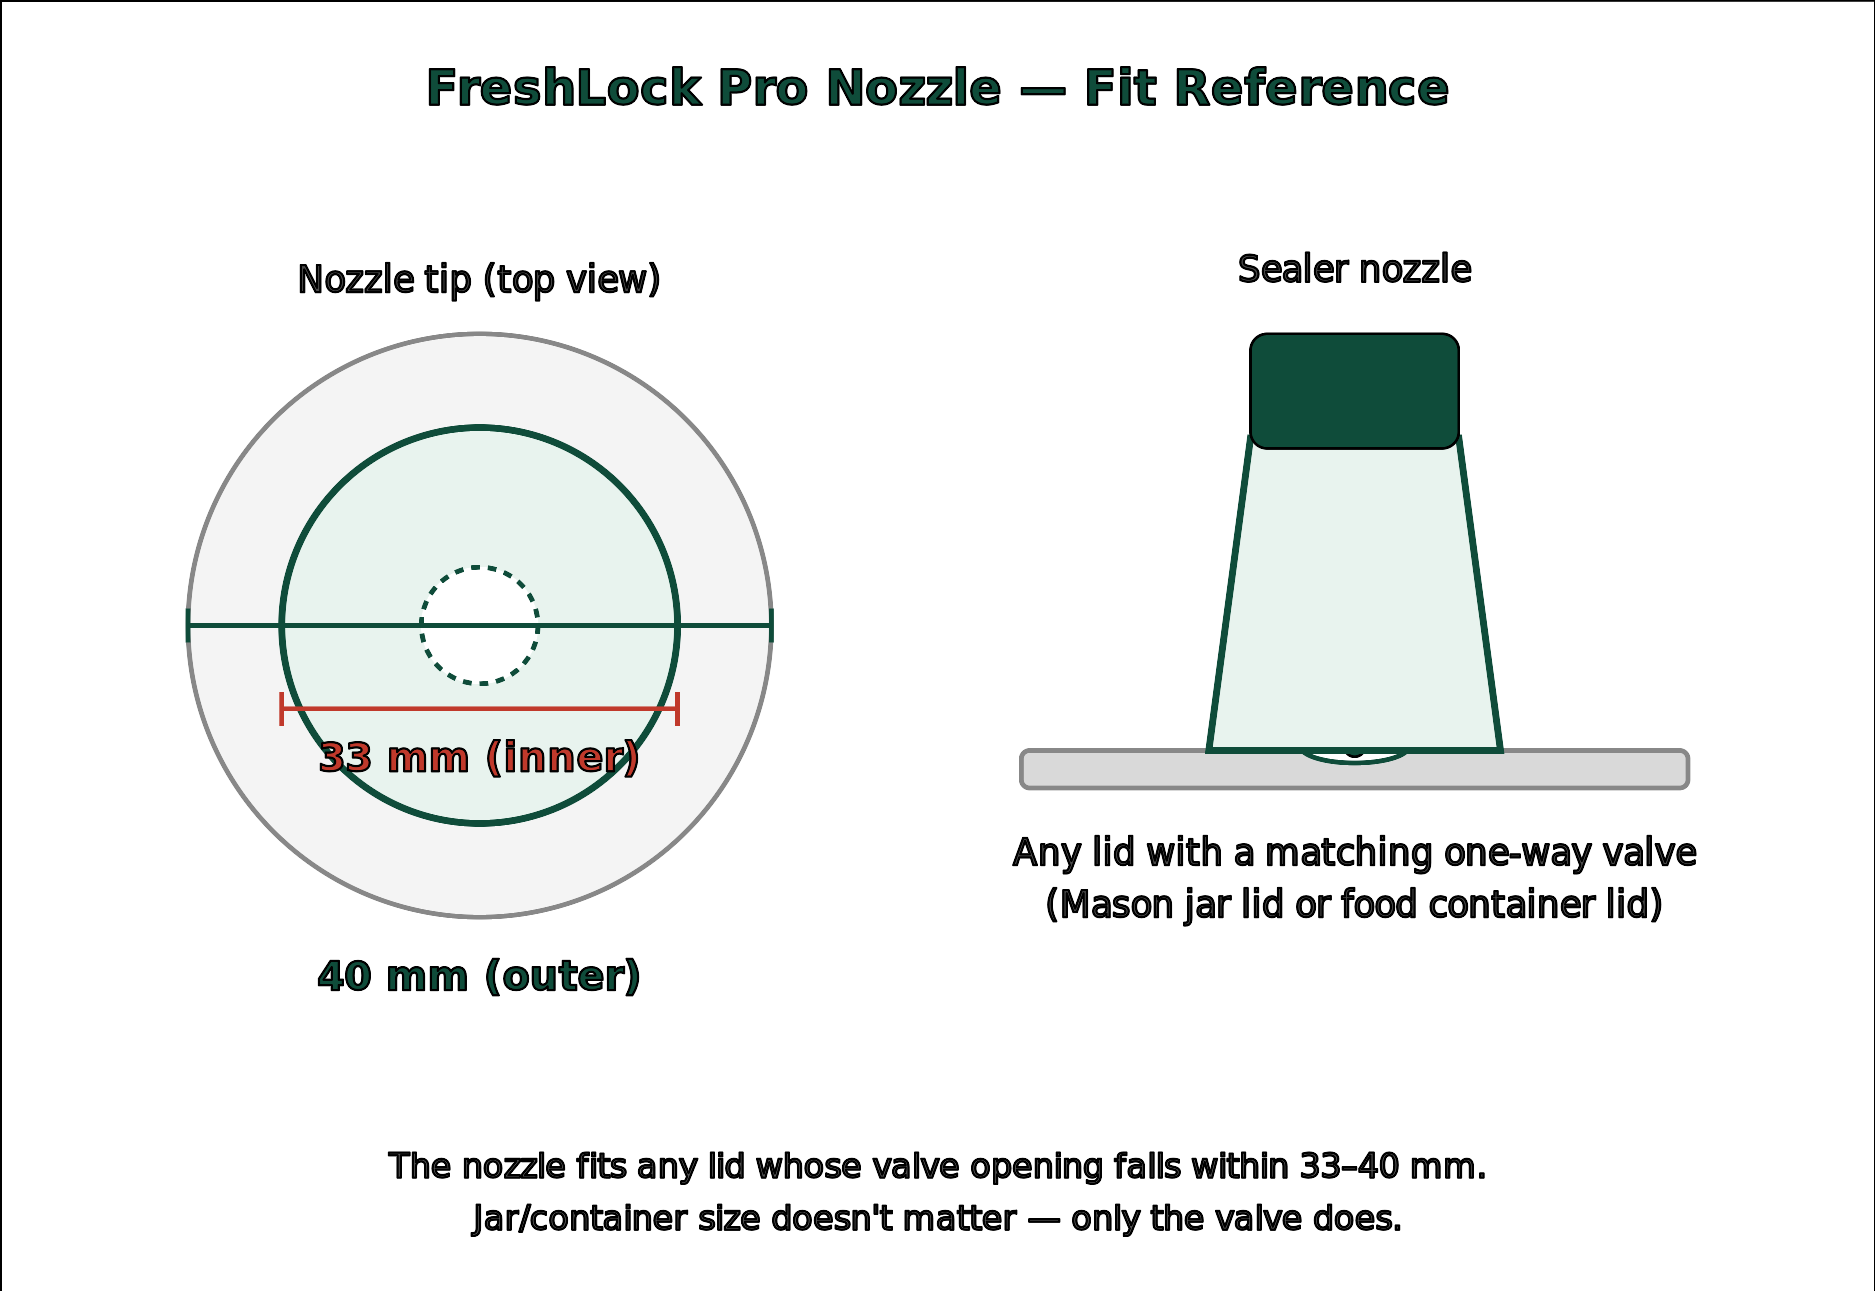
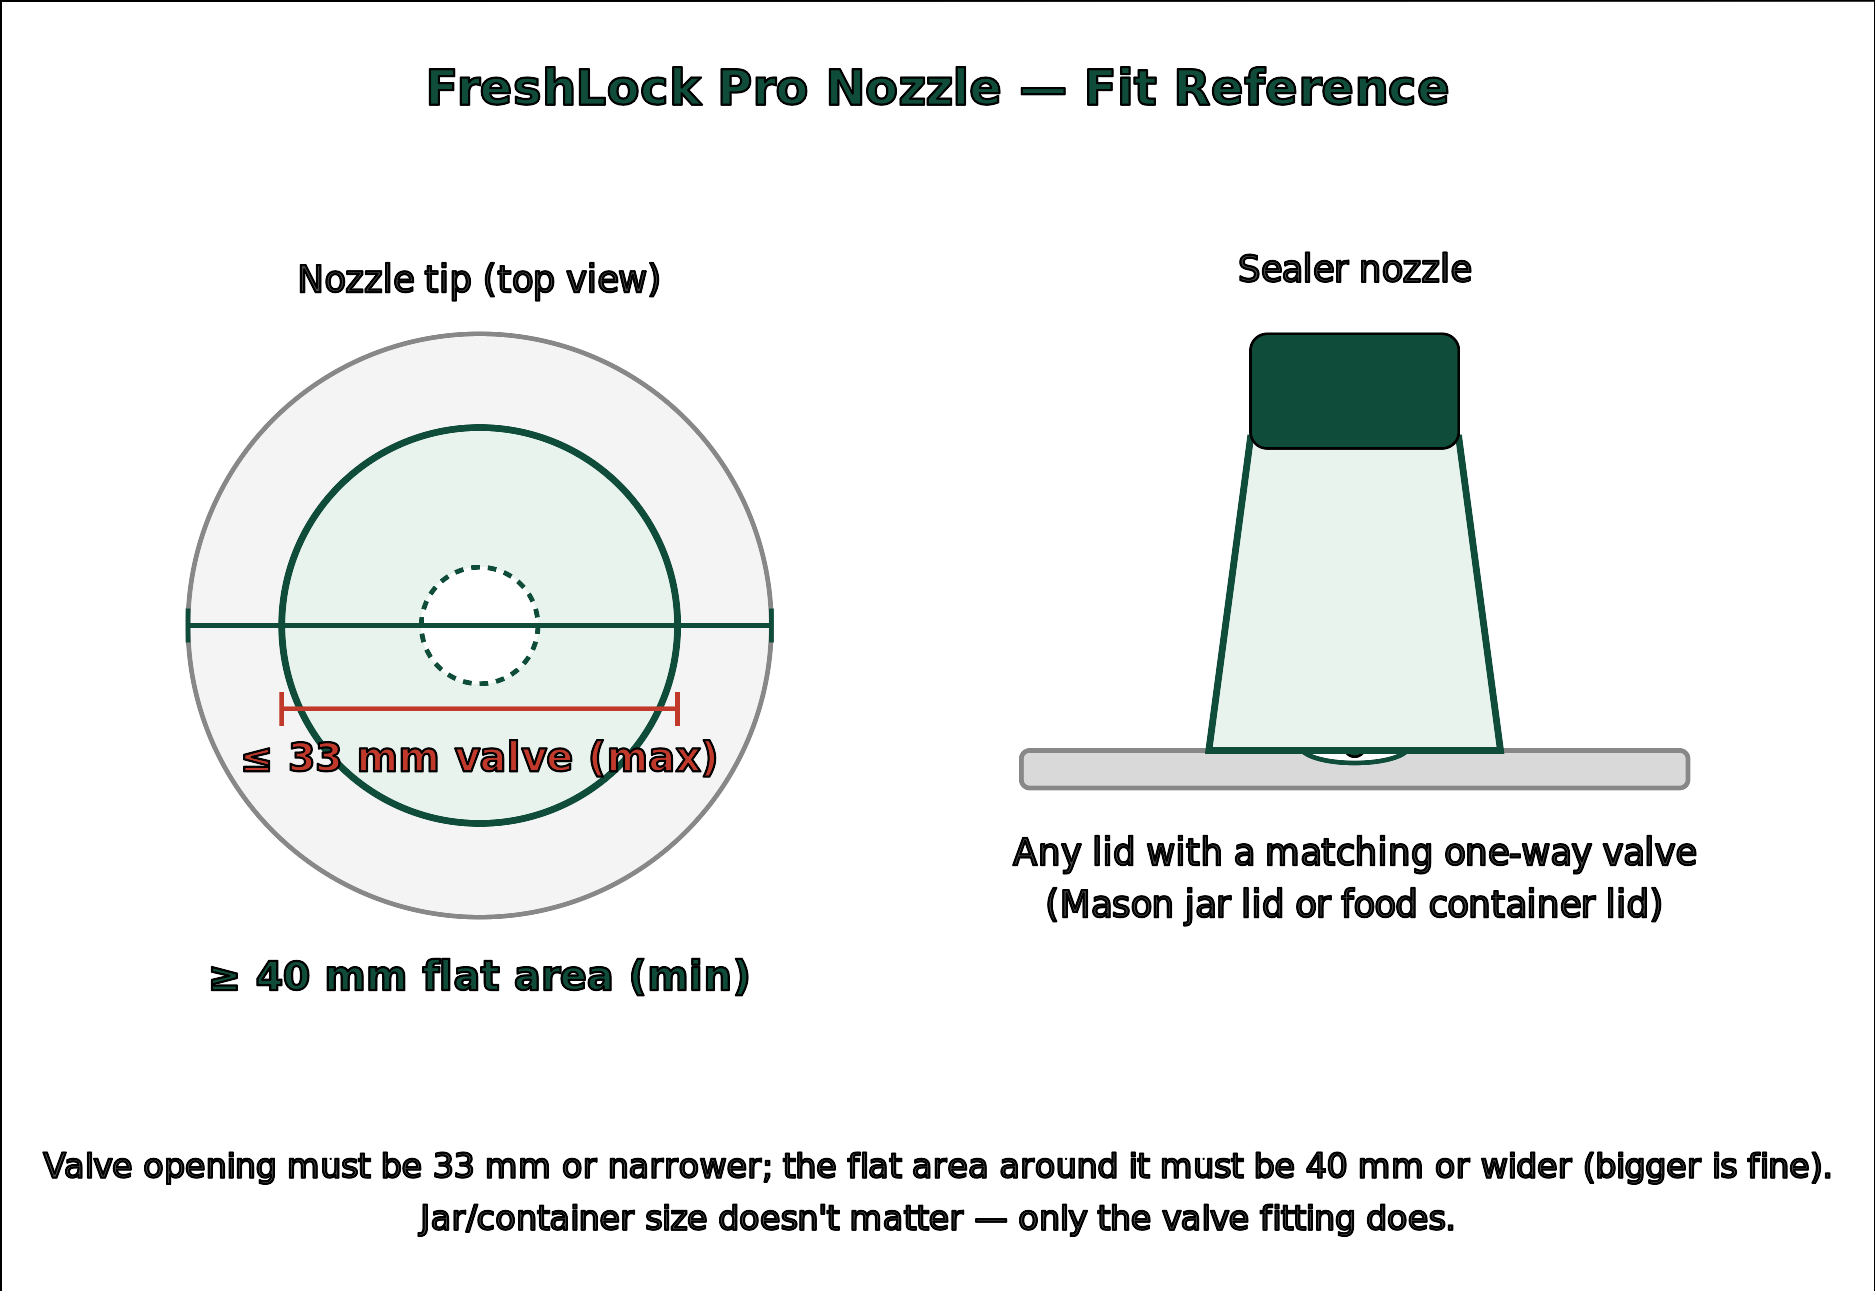
fix: correct nozzle fit spec — valve max / flat-surface min, not a fixed range
User's own clarification (2026-09-21): 33mm/40mm aren't a "valve must be
exactly in this range" window like PR #12 implied. They're two independent
tolerances — valve opening must be <=33mm (nozzle needs to cover/seal
against it), and the flat sealing surface around the valve must be >=40mm
(a larger flat area is fine; smaller and the nozzle can't sit flush, which
risks an air leak). Corrects the features bullet, spec row, FAQ answer, and
the nozzle-fit-diagram.png labels/caption to state the actual tolerance
logic instead of a misleading fixed range.

Claude-Session: https://claude.ai/code/session_01HDovveMbi5Yy68JGvvZHzC

Changed region(s): [[0.0309, 0.8675, 0.9899, 0.9605], [0.1237, 0.5577, 0.3712, 0.6197], [0.0928, 0.7436, 0.4021, 0.7746]]

diff --git a/lib/data.ts b/lib/data.ts
@@ -46,7 +46,7 @@ export const products: Product[] = [
       'Detachable drip tray with liquid backflow protection for soups, marinades, and juicy foods',
       'One-touch operation — no heat bar, no complicated settings',
       'Compatible with most embossed valve bags (not locked to our own bags)',
-      'Also seals Mason jars and food storage containers airtight — works with any lid that has a matching one-way vacuum valve (33 mm inner / 40 mm outer nozzle fit)',
+      'Also seals Mason jars and food storage containers airtight — works with any lid that has a one-way vacuum valve no wider than 33 mm, on a flat sealing surface at least 40 mm across',
       'Cordless & portable — USB-C rechargeable, 80–100 seals per charge',
       'Quiet motor under 60 dB — about as loud as a library',
       'Compact, lightweight design (~210 g) — fits in a kitchen drawer',
@@ -66,7 +66,7 @@ export const products: Product[] = [
       'Drip tray': 'Detachable transparent drip cup, liquid backflow protection',
       'Bag compatibility': 'Compatible with most embossed valve bags (not locked to our own bags)',
       'Jar compatibility': 'Mason jars with a valve-style vacuum lid (not standard flat/screw lids)',
-      'Nozzle size': '33 mm inner diameter / 40 mm outer diameter — fits any Mason jar lid or food storage container lid with a matching one-way vacuum valve; not size-limited beyond the valve fitting',
+      'Nozzle size': '33 mm inner diameter (max valve opening) / 40 mm outer diameter (min flat sealing surface) — works with any Mason jar lid or food storage container lid whose valve fits within that, on a large-enough flush surface',
       "What's in the box": '1 FreshLock Pro sealer, 1 USB-C charging cable, starter vacuum bags, user manual',
       'Warranty': '1-year warranty on the unit, 6-month on accessories',
     },
@@ -287,7 +287,7 @@ export const faqs = [
   {
     question: 'Can I use it to vacuum seal Mason jars or food storage containers?',
     answer:
-      "Yes — for both, as long as the lid has a built-in one-way air valve (the same style of valve as FreshLock bags). The FreshLock Pro nozzle is 33 mm inner / 40 mm outer diameter, so any Mason jar lid or food container lid with a valve in that range works — set the nozzle over the valve and press the button, same as sealing a bag. It will not work with a standard flat/screw-on lid or container with no valve, regardless of size.",
+      "Yes — for both, as long as the lid has a built-in one-way air valve (the same style of valve as FreshLock bags). The FreshLock Pro nozzle needs a valve opening no wider than 33 mm, sitting on a flat sealing surface at least 40 mm across (a bit larger is fine — a smaller flat area won't seal flush and can leak). Set the nozzle over the valve and press the button, same as sealing a bag. It will not work with a standard flat/screw-on lid or container with no valve, regardless of size.",
   },
   {
     question: 'How long does the battery last and how do I charge it?',
